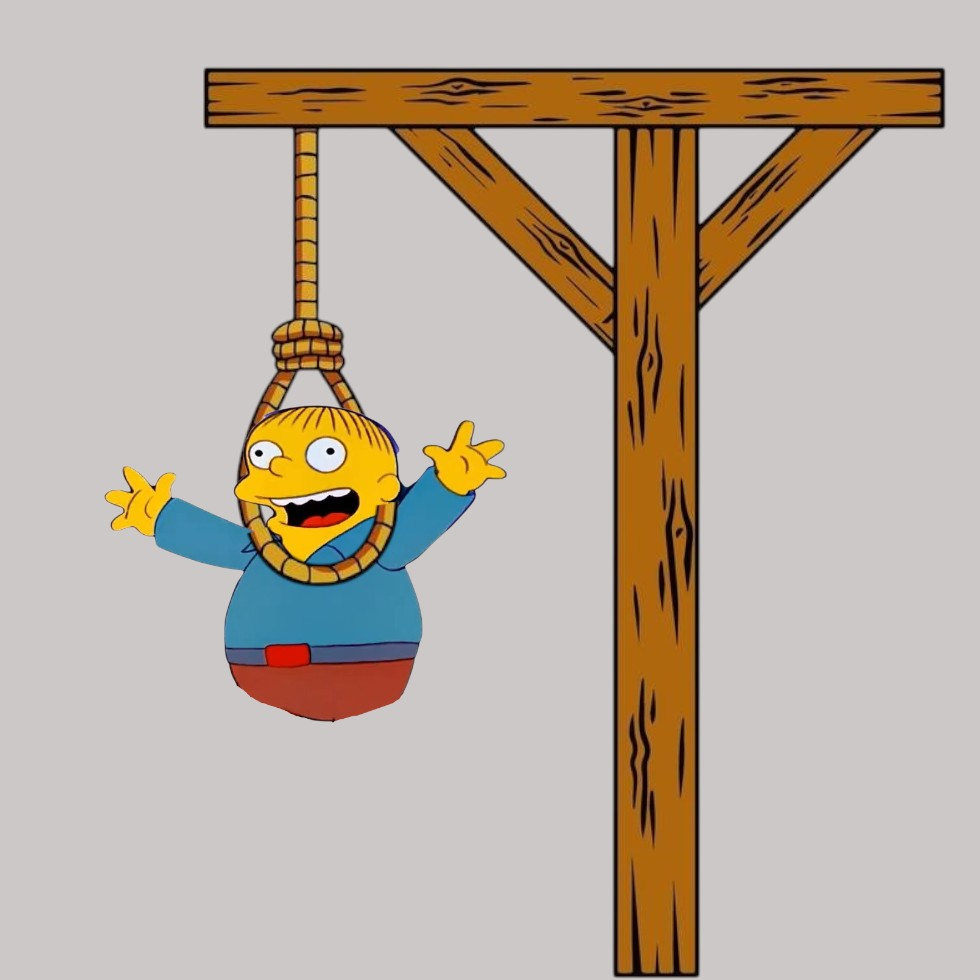
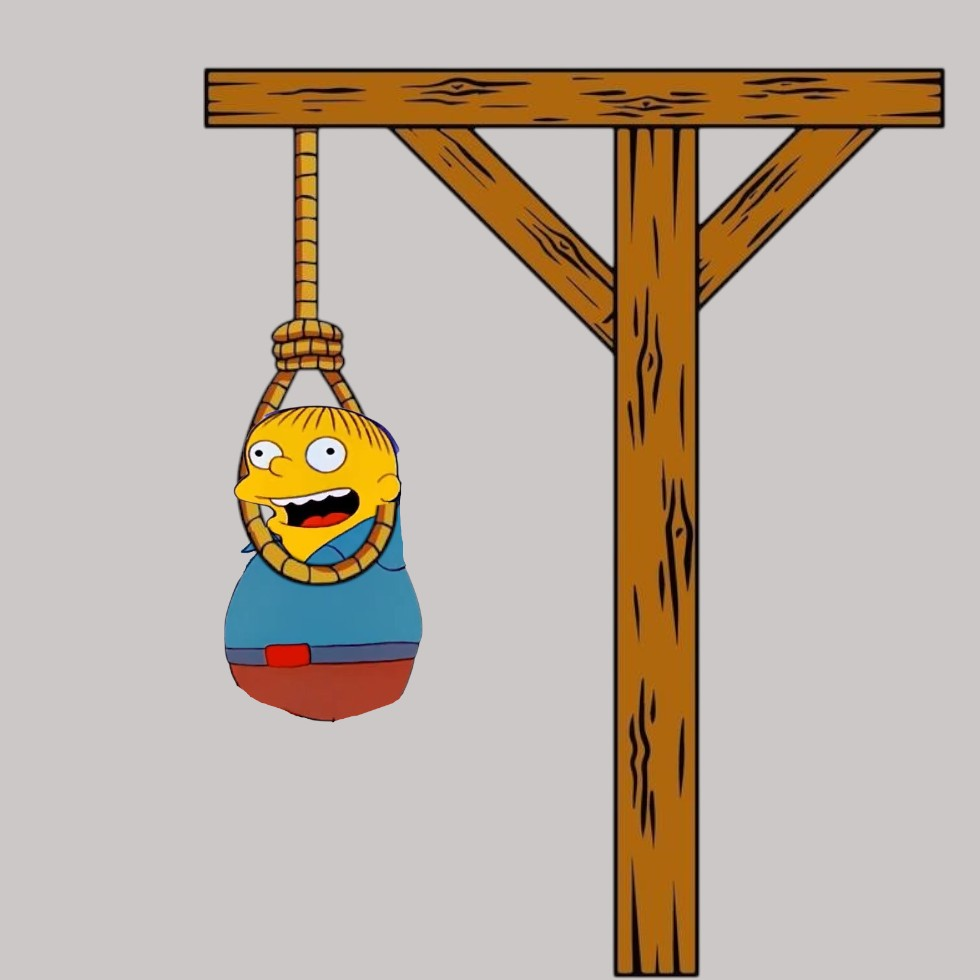
Agrego más vidas

Changed region(s): [[0.0918, 0.4592, 0.2755, 0.5816], [0.398, 0.4286, 0.5204, 0.5816]]

diff --git a/ahorcado.py b/ahorcado.py
@@ -31,7 +31,7 @@ class Ahorcado():
 
     def inicializar_juego(self):
         """Inicializa variables para una nueva partida"""
-        self.vidas = 6
+        self.vidas = 8
         self.puntuacion_actual = 0
         self.puntos_para_revelar = 100
         self.juego_activo = True
@@ -47,7 +47,7 @@ class Ahorcado():
         """Carga las 7 imágenes del ahorcado (0-6)"""
         imagenes = []
         try:
-            for i in range(7):
+            for i in range(9):
                 ruta = f'recursos/imagenes/ahorcado_{i}.png'
                 img = Image.open(ruta).resize((300, 300), Image.LANCZOS)
                 imagenes.append(ImageTk.PhotoImage(img))
@@ -236,7 +236,7 @@ class Ahorcado():
         self.actualizar_estado()
         self.juego_activo = False
         # Calcular puntos finales
-        bono_vidas = self.vidas * 50
+        bono_vidas = self.vidas * 40
         puntos_partida = self.puntuacion_actual + bono_vidas
         Ahorcado.puntuacion_total += puntos_partida
         Ahorcado.record += puntos_partida
